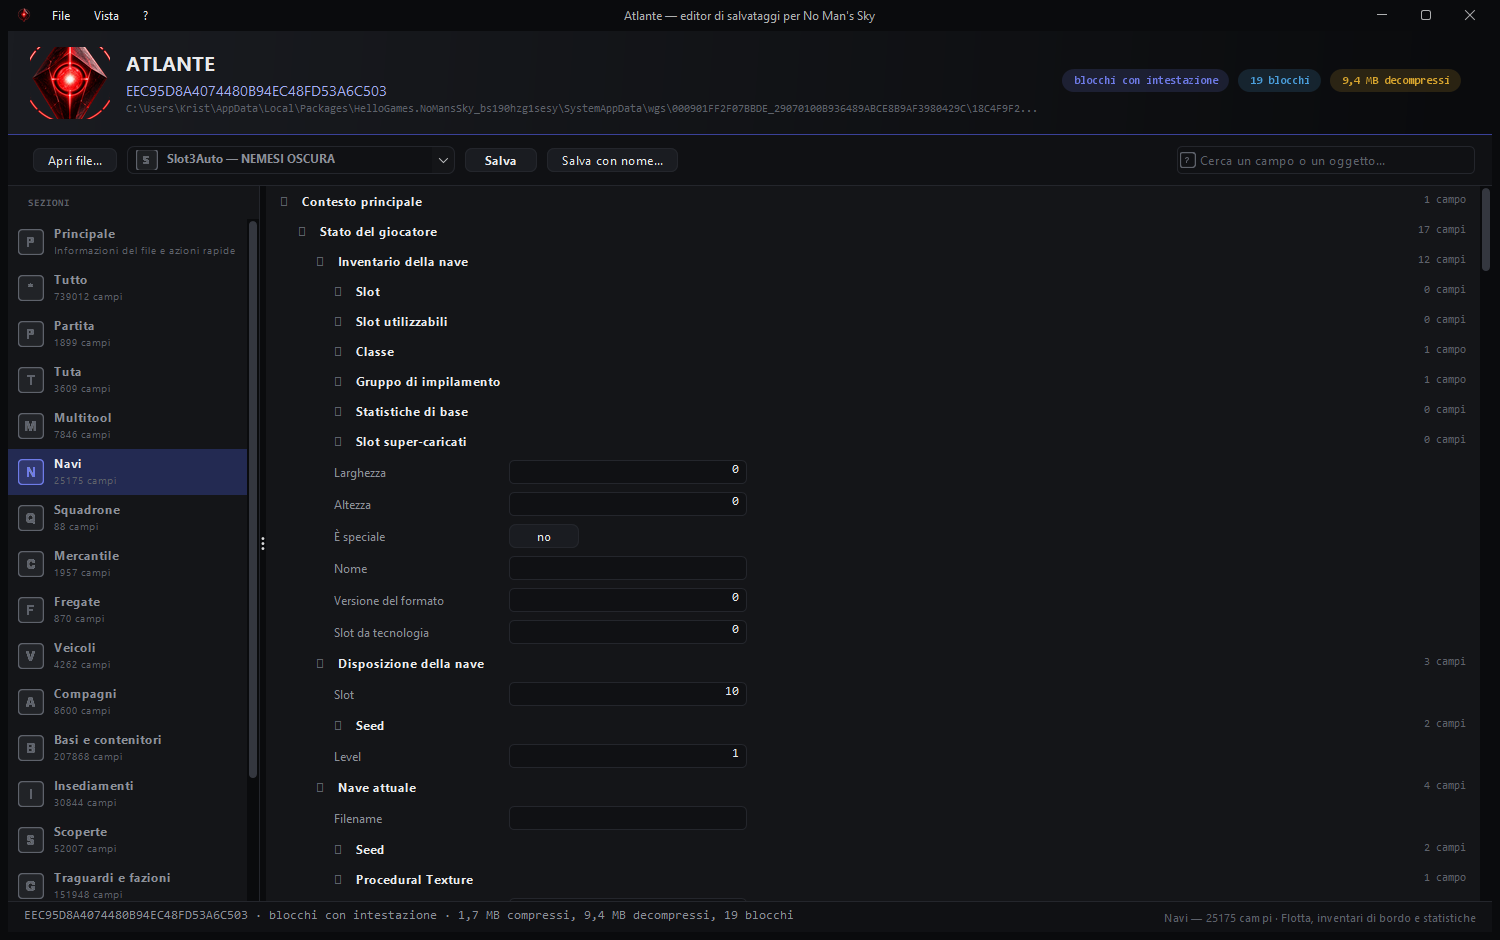
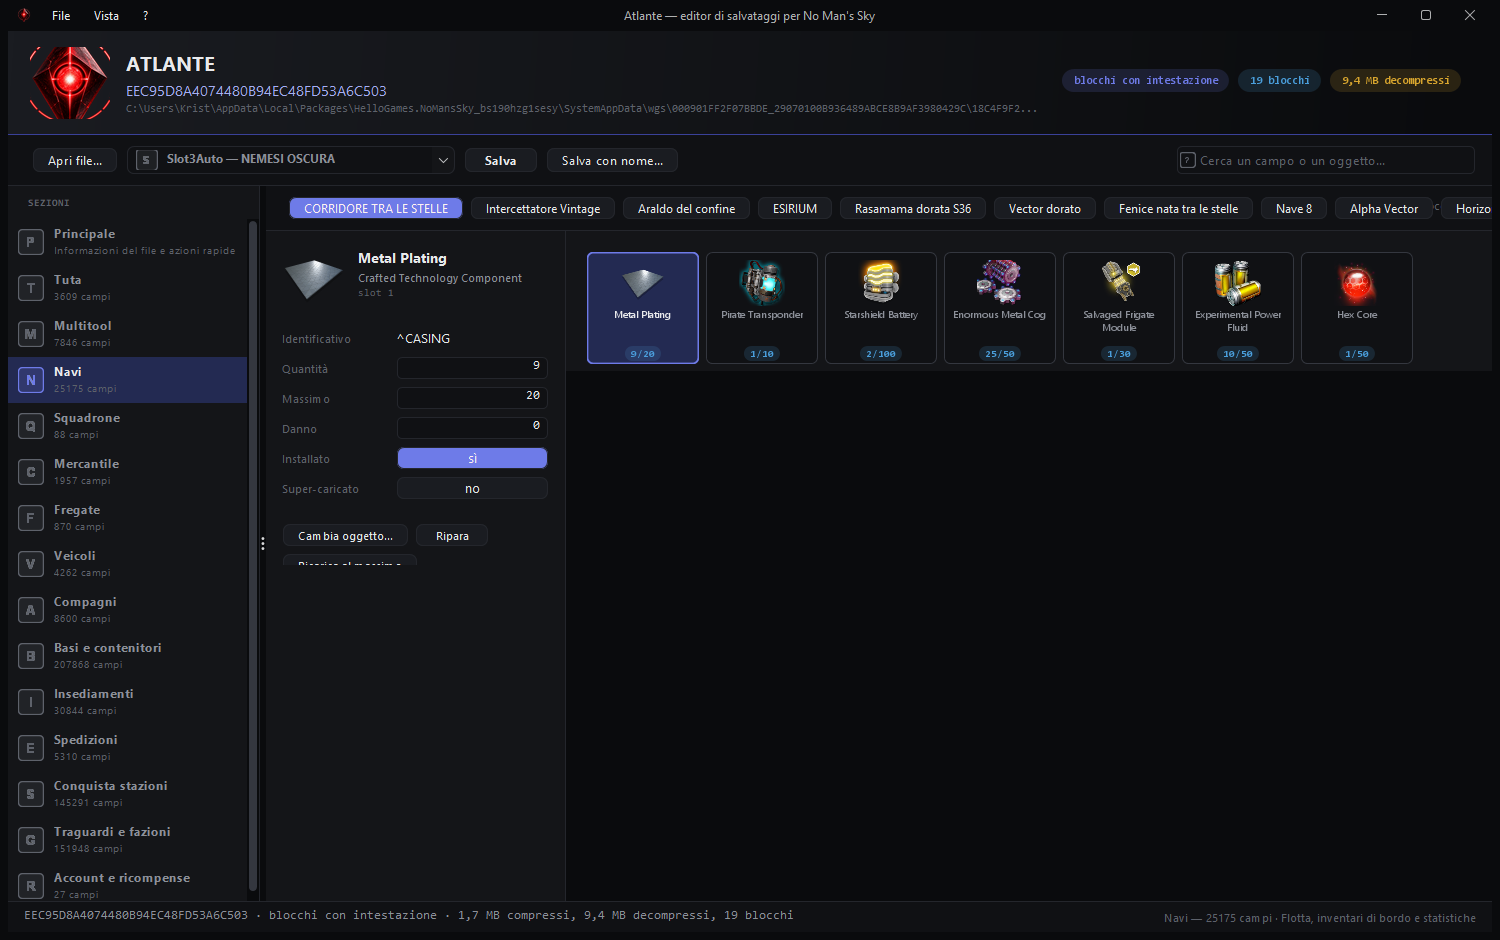
Selezione automatica dello slot, navi per nome, sezioni riordinate
Correzioni chieste da Sbri dopo la prova.

1. "nessuna sezione seleziona lo slot"
   La catena del clic funzionava (verificato con un clic simulato: 100
   schede, slot 0 selezionato). Il difetto era che all'apertura di un
   inventario non era selezionato niente: il form restava vuoto e la
   sezione sembrava rotta. Ora si sceglie subito il primo slot occupato,
   cosi' il primo pezzo compare da solo.

2. Sezione Navi vuota
   Il percorso ShipInventory non esiste: le navi sono una lista dentro
   ShipOwnership, e ognuna ha il suo Inventory, Inventory_Cargo e
   Inventory_TechOnly. Ora le sotto-schede sono le navi possedute, con i
   nomi dati dal giocatore, e ognuna mostra il proprio inventario.

3. Sezioni riordinate su richiesta
   Tolte: Tutto, Partita, Scoperte, Archivio scoperte, Foto e musica.
   Aggiunte: Spedizioni e Conquista stazioni.
   Restano 15 sezioni, con i nomi delle schede del vecchio editor.

Aggiunto alla griglia un metodo di collaudo (provaClick, primoOccupato)
che verifica la catena dal clic fino al form senza dover cliccare a mano.

diff --git a/src/it/atlante/finestra/Navigazione.java b/src/it/atlante/finestra/Navigazione.java
@@ -60,19 +60,7 @@ public final class Navigazione {
         SEZIONI.add(new Sezione("Principale", "Informazioni del file e azioni rapide",
                 "P", Contenitore.PRINCIPALE));
 
-        SEZIONI.add(new Sezione("Tutto", "Il salvataggio completo, campo per campo",
-                "*", Contenitore.RADICE));
-
-        SEZIONI.add(new Sezione("Partita", "Difficolta', risorse, stato del giocatore",
-                "P", Contenitore.GIOCATORE,
-                "DifficultyState", "SaveSummary", "TimeAlive", "TimeStamp", "Health", "Shield",
-                "Energy", "Hazard", "HazardTimeAlive", "Units", "Nanites", "Specials",
-                "BannerTitleId", "BannerIcon", "BannerMainColour", "BannerBackgroundColour",
-                "CharacterCustomisationData", "Outfits", "OutfitNames", "GameStartAddress1",
-                "GameStartAddress2", "FirstSpawnPosition", "HomeRealityIteration",
-                "UseSmallerBlackholeJumps", "JetpackEffect", "SaveSummary"));
-
-        SEZIONI.add(new Sezione("Tuta", "Inventario personale, cargo e tecnologie",
+        SEZIONI.add(new Sezione("Tuta", "Inventario personale, stiva e tecnologie",
                 "T", Contenitore.GIOCATORE,
                 "Inventory", "Inventory_Cargo", "Inventory_TechOnly", "RepairTechBuffer"));
 
@@ -129,13 +117,14 @@ public final class Navigazione {
                 "SettlementStatesV2", "SettlementLocalSaveData", "SettlementHistory",
                 "SettlementStateRingBufferIndexV2"));
 
-        SEZIONI.add(new Sezione("Scoperte", "Sistemi, pianeti, parole e meraviglie",
+        SEZIONI.add(new Sezione("Spedizioni", "La spedizione in corso, i suoi traguardi e le ricompense",
+                "E", Contenitore.COMUNE,
+                "SeasonData", "SeasonState", "SeasonTransferInventoryData",
+                "StartingSeasonNumber", "RestartAllInactiveSeasonalMissions"));
+
+        SEZIONI.add(new Sezione("Conquista stazioni", "Cosa serve per rivendicare una stazione spaziale",
                 "S", Contenitore.GIOCATORE,
-                "PlanetSeeds", "VisitedSystems", "VisitedPortal", "KnownWords", "KnownWordGroups",
-                "KnownProducts", "KnownTech", "KnownSpecials", "KnownRefinerRecipes",
-                "KnownPortalRunes", "Wonder*", "AtlasStationAdressData",
-                "NewAtlasStationAdressData", "VisitedAtlasStationsData", "SpacePoiDiscoveries",
-                "TeleportEndpoints", "SurveyedEventPositions", "PlanetPositions"));
+                "Stats", "ProgressionLevel", "MissionProgress"));
 
         SEZIONI.add(new Sezione("Traguardi e fazioni", "Statistiche, missioni e reputazione",
                 "G", Contenitore.GIOCATORE,
@@ -145,19 +134,11 @@ public final class Navigazione {
                 "TelemetryStats", "ShopTier", "ShopNumber", "SavedInteractionDialogTable",
                 "SavedInteractionIndicies"));
 
-        SEZIONI.add(new Sezione("Account e ricompense", "Spedizioni, drop e sblocchi del profilo",
+        SEZIONI.add(new Sezione("Account e ricompense", "Drop, sblocchi del profilo e diritti",
                 "R", Contenitore.COMUNE,
-                "SeasonData", "SeasonState", "SeasonTransferInventoryData",
                 "EarnedSeasonSpecialRewards", "RedeemedSeasonRewards", "RedeemedTwitchRewards",
                 "RedeemedPlatformRewards", "UsedEntitlements", "SaveUniversalId",
-                "UsedPlatforms", "StartingSeasonNumber", "RestartAllInactiveSeasonalMissions"));
-
-        SEZIONI.add(new Sezione("Foto e musica", "Modalita' fotografica e biblioteca ByteBeat",
-                "F", Contenitore.COMUNE,
-                "PhotoModeSettings", "ByteBeatLibrary"));
-
-        SEZIONI.add(new Sezione("Archivio scoperte", "Il registro delle scoperte del gioco",
-                "D", Contenitore.SCOPERTE, "DiscoveryData-v1"));
+                "UsedPlatforms"));
     }
 
     public static List<Sezione> elenco() {

diff --git a/src/it/atlante/finestra/PannelloInventario.java b/src/it/atlante/finestra/PannelloInventario.java
@@ -103,7 +103,7 @@ public final class PannelloInventario extends JPanel {
     /** Mostra la sezione: sceglie le sotto-schede e apre la prima. */
     public void mostra(Object radice, String nomeSezione) {
         this.radice = radice;
-        inventari = Inventari.esistenti(radice, Inventari.perSezione(nomeSezione));
+        inventari = Inventari.esistenti(radice, Inventari.perSezione(radice, nomeSezione));
         schede.removeAll();
 
         if (inventari.isEmpty()) {
@@ -137,7 +137,16 @@ public final class PannelloInventario extends JPanel {
     private void apri(Inventari.Inventario inv) {
         corrente = inv;
         griglia.mostra(Inventari.risolvi(radice, inv.percorso), inv.etichetta);
-        modulo.svuota();
+        // Si sceglie subito il primo slot occupato. Aprendo l'inventario con il
+        // form vuoto la sezione sembra rotta: "nessuno slot scelto" non dice
+        // niente, mentre il primo pezzo mostrato dice subito dove sei.
+        int primo = griglia.primoOccupato();
+        if (primo >= 0) {
+            griglia.seleziona(primo);
+            modulo.mostra(primo);
+        } else {
+            modulo.svuota();
+        }
         aggiornaContatore();
     }
 
@@ -170,6 +179,39 @@ public final class PannelloInventario extends JPanel {
     /** Adatta la griglia allo spazio disponibile, dopo un ridimensionamento. */
     public void ridisponi() {
         griglia.ricalcolaColonne();
+    }
+
+    /** Collaudo: simula un clic sul primo slot occupato e riferisce l'esito. */
+    public String provaSelezione() {
+        int quante = griglia.quanteSchede();
+        int indice = griglia.primoOccupato();
+        if (indice < 0) {
+            return "nessuno slot occupato (schede: " + quante + ")";
+        }
+        boolean inviato = griglia.provaClick(indice);
+        return "schede " + quante + ", clic sullo slot " + indice
+                + (inviato ? " inviato" : " NON inviato")
+                + ", selezionato ora: " + griglia.selezionato();
+    }
+
+    /** Collaudo: sceglie direttamente uno slot, senza passare dal mouse. */
+    public void selezionaDirettamente(int indice) {
+        modulo.mostra(indice);
+    }
+
+    /** Quanti slot ha l'inventario aperto. */
+    public int quantiSlot() {
+        return griglia.quanteSchede();
+    }
+
+    /** Quale slot risulta selezionato, o -1. */
+    public int slotSelezionato() {
+        return griglia.selezionato();
+    }
+
+    /** Il primo slot occupato, o -1. */
+    public int primoOccupato() {
+        return griglia.primoOccupato();
     }
 
     // ------------------------------------------------------------------

diff --git a/src/it/atlante/finestra/GrigliaSlot.java b/src/it/atlante/finestra/GrigliaSlot.java
@@ -246,6 +246,51 @@ public final class GrigliaSlot extends JPanel {
         return selezionata == null ? -1 : selezionata.indice;
     }
 
+    /**
+     * Simula un clic su uno slot. Serve al collaudo: verifica che la catena
+     * dall'evento del mouse fino al form funzioni, senza dover cliccare a mano.
+     */
+    public boolean provaClick(int indice) {
+        for (Component c : contenitore.getComponents()) {
+            if (c instanceof Cella && ((Cella) c).indice == indice) {
+                Cella cella = (Cella) c;
+                cella.dispatchEvent(new MouseEvent(cella, MouseEvent.MOUSE_CLICKED,
+                        System.currentTimeMillis(), 0,
+                        Math.max(1, cella.getWidth() / 2), Math.max(1, cella.getHeight() / 2),
+                        1, false));
+                return true;
+            }
+        }
+        return false;
+    }
+
+    /** Quante schede sono state costruite: serve al collaudo. */
+    public int quanteSchede() {
+        return contenitore.getComponentCount();
+    }
+
+    /** Il primo slot occupato, o -1 se sono tutti liberi. */
+    public int primoOccupato() {
+        for (int i = 0; i < slot.size(); i++) {
+            String id = testo(i, "Id");
+            if (id != null && !id.isEmpty() && !"^".equals(id)) {
+                return i;
+            }
+        }
+        return -1;
+    }
+
+    /** Sceglie uno slot senza passare dal mouse. */
+    public void seleziona(int indice) {
+        for (Component c : contenitore.getComponents()) {
+            if (c instanceof Cella && ((Cella) c).indice == indice) {
+                selezionata = (Cella) c;
+                contenitore.repaint();
+                return;
+            }
+        }
+    }
+
     /** Il valore di un campo di uno slot, con ripiego. */
     @SuppressWarnings("unchecked")
     private Object campo(int indice, String nome) {

diff --git a/src/it/atlante/finestra/Inventari.java b/src/it/atlante/finestra/Inventari.java
@@ -93,6 +93,43 @@ public final class Inventari {
         return l == null ? Collections.<Inventario>emptyList() : l;
     }
 
+    /**
+     * Gli inventari di una sezione, ricavati dal salvataggio aperto.
+     *
+     * Per la sezione Navi non basta un elenco fisso: le navi possedute sono una
+     * lista, e ognuna ha il suo inventario. I nomi delle sotto-schede sono i
+     * nomi che il giocatore ha dato alle navi, cosi' si riconoscono.
+     */
+    @SuppressWarnings("unchecked")
+    public static List<Inventario> perSezione(Object radice, String nomeSezione) {
+        if ("Navi".equals(nomeSezione)) {
+            return navi(radice);
+        }
+        return perSezione(nomeSezione);
+    }
+
+    private static List<Inventario> navi(Object radice) {
+        List<Inventario> elenco = new ArrayList<Inventario>();
+        Object possedute = risolvi(radice, "BaseContext.PlayerStateData.ShipOwnership");
+        if (!(possedute instanceof List)) {
+            return elenco;
+        }
+        List<Object> lista = (List<Object>) possedute;
+        for (int i = 0; i < lista.size(); i++) {
+            String nome = "Nave " + (i + 1);
+            Object nave = lista.get(i);
+            if (nave instanceof Map) {
+                Object n = ((Map<String, Object>) nave).get("Name");
+                if (n != null && !String.valueOf(n).trim().isEmpty()) {
+                    nome = String.valueOf(n).trim();
+                }
+            }
+            elenco.add(new Inventario(nome,
+                    "BaseContext.PlayerStateData.ShipOwnership[" + i + "].Inventory"));
+        }
+        return elenco;
+    }
+
     /** Vero se la sezione si mostra come griglie di slot invece che come campi. */
     public static boolean aGriglia(String nomeSezione) {
         return PER_SEZIONE.containsKey(nomeSezione);

diff --git a/src/it/atlante/strumenti/Schermate.java b/src/it/atlante/strumenti/Schermate.java
@@ -92,13 +92,21 @@ public final class Schermate {
         String[][] viste = {
                 {"Principale", "atlante-principale"},
                 {"Tuta", "atlante-tuta"},
-                {"Multitool", "atlante-multitool"},
+                {"Navi", "atlante-navi"},
         };
         for (String[] vista : viste) {
             finestra.mostraSezionePerNome(vista[0]);
             // Tre livelli bastano per arrivare ai valori in tutte le sezioni:
             // contenitore, gruppo, campo.
             finestra.espandiA(3);
+            if (vista[0].equals("Tuta")) {
+                System.out.println("collaudo selezione Tuta:");
+                System.out.println("  slot: " + finestra.quantiSlot()
+                        + ", primo occupato: " + finestra.primoOccupato());
+                System.out.println("  clic simulato -> " + finestra.provaSelezione());
+                finestra.selezionaSlot(finestra.primoOccupato());
+                System.out.println("  selezionato dopo il clic: " + finestra.slotSelezionato());
+            }
             scatta(finestra, new File(uscita, vista[1] + ".png"), vista[0]);
         }
 

diff --git a/src/it/atlante/finestra/Finestra.java b/src/it/atlante/finestra/Finestra.java
@@ -513,6 +513,30 @@ public final class Finestra extends JFrame {
         }
     }
 
+    /** Collaudo della selezione degli slot. */
+    public String provaSelezione() {
+        return inventario == null ? "nessun pannello inventario" : inventario.provaSelezione();
+    }
+
+    public int quantiSlot() {
+        return inventario == null ? 0 : inventario.quantiSlot();
+    }
+
+    public int primoOccupato() {
+        return inventario == null ? -1 : inventario.primoOccupato();
+    }
+
+    /** Sceglie uno slot senza passare dal mouse. */
+    public void selezionaSlot(int indice) {
+        if (inventario != null && indice >= 0) {
+            inventario.selezionaDirettamente(indice);
+        }
+    }
+
+    public int slotSelezionato() {
+        return inventario == null ? -1 : inventario.slotSelezionato();
+    }
+
     /** Seleziona una sezione per nome: usato dal generatore di schermate. */
     public boolean mostraSezionePerNome(String nome) {
         for (int i = 0; i < modelloSezioni.size(); i++) {
